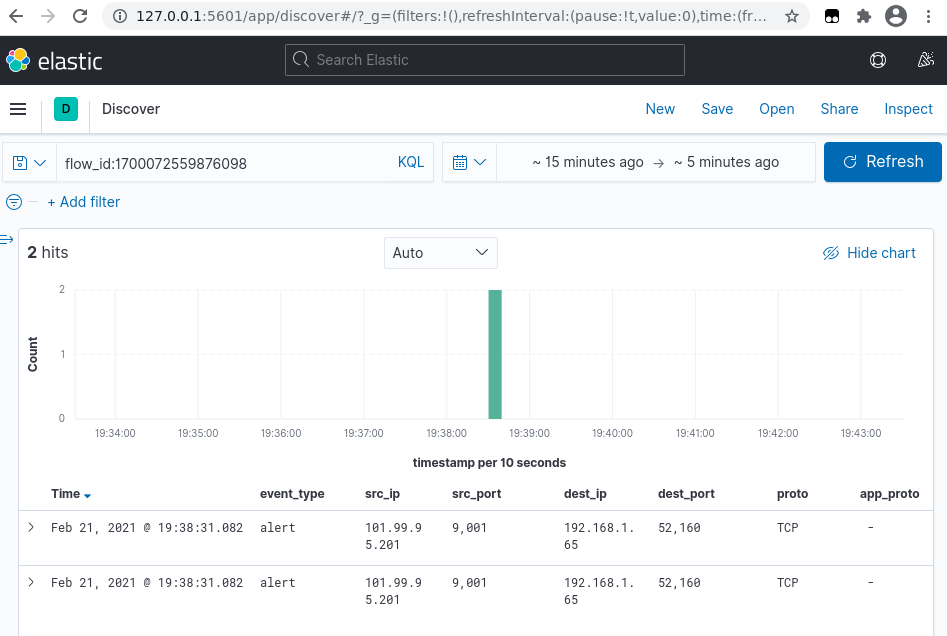
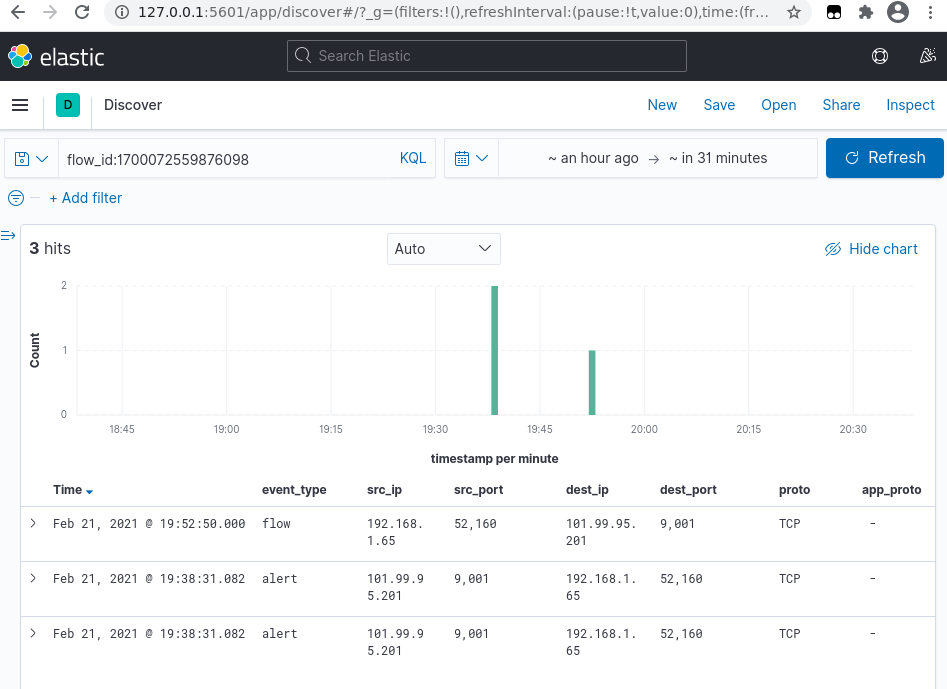
minor fix

diff --git a/elastic.py b/elastic.py
@@ -181,8 +181,8 @@ class Notifier(threading.Thread):
                     url = 'http://127.0.0.1:5601/app/discover#/?' + \
                           '_g=(filters:!(),refreshInterval:(pause:!t,value:0),'
 
-                    start = (dateparser.parse(flowstart) - datetime.timedelta(minutes=5)).isoformat()
-                    end   = (dateparser.parse(timestamp) + datetime.timedelta(minutes=5)).isoformat()
+                    start = (dateparser.parse(flowstart) - datetime.timedelta(minutes=60)).isoformat()
+                    end   = (dateparser.parse(timestamp) + datetime.timedelta(minutes=60)).isoformat()
 
                     url += f"time:(from:'{start}',to:'{end}'))&" + \
                            '_a=(columns:!(event_type,src_ip,src_port,dest_ip,dest_port,proto,app_proto),' + \

diff --git a/README.md b/README.md
@@ -340,10 +340,10 @@ Message-Id: <E1lDzJv-00031B-8j@localhost>
 Date: Sun, 21 Feb 2021 19:43:27 -0500
 
 ET TOR Known Tor Exit Node Traffic group 1
-http://127.0.0.1:5601/app/discover#/?_g=(filters:!(),refreshInterval:(pause:!t,value:0),time:(from:'2021-02-21T19:33:30.792578-05:00',to:'2021-02-21T19:43:31.082985-05:00'))&_a=(columns:!(event_type,src_ip,src_port,dest_ip,dest_port,proto,app_proto),filters:!(),index:'0170a7e0-7409-11eb-9879-6bf568a6cc4d',interval:auto,sort:!(),query:(language:kuery,query:'flow_id:1700072559876098'))
+http://127.0.0.1:5601/app/discover#/?_g=(filters:!(),refreshInterval:(pause:!t,value:0),time:(from:'2021-02-21T18:38:30.792578-05:00',to:'2021-02-21T20:38:31.082985-05:00'))&_a=(columns:!(event_type,src_ip,src_port,dest_ip,dest_port,proto,app_proto),filters:!(),index:'0170a7e0-7409-11eb-9879-6bf568a6cc4d',interval:auto,sort:!(),query:(language:kuery,query:'flow_id:1700072559876098'))
 
 ET TOR Known Tor Relay/Router (Not Exit) Node Traffic group 1
-http://127.0.0.1:5601/app/discover#/?_g=(filters:!(),refreshInterval:(pause:!t,value:0),time:(from:'2021-02-21T19:33:30.792578-05:00',to:'2021-02-21T19:43:31.082985-05:00'))&_a=(columns:!(event_type,src_ip,src_port,dest_ip,dest_port,proto,app_proto),filters:!(),index:'0170a7e0-7409-11eb-9879-6bf568a6cc4d',interval:auto,sort:!(),query:(language:kuery,query:'flow_id:1700072559876098'))
+http://127.0.0.1:5601/app/discover#/?_g=(filters:!(),refreshInterval:(pause:!t,value:0),time:(from:'2021-02-21T18:38:30.792578-05:00',to:'2021-02-21T20:38:31.082985-05:00'))&_a=(columns:!(event_type,src_ip,src_port,dest_ip,dest_port,proto,app_proto),filters:!(),index:'0170a7e0-7409-11eb-9879-6bf568a6cc4d',interval:auto,sort:!(),query:(language:kuery,query:'flow_id:1700072559876098'))
 ```
 
 The generated Kibana show the associated alerts records:
